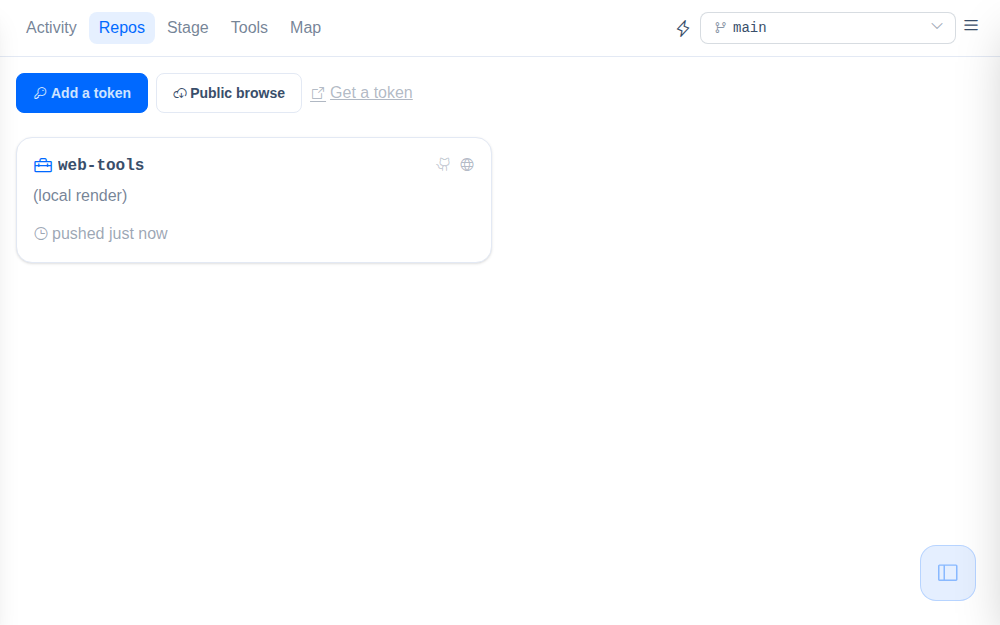
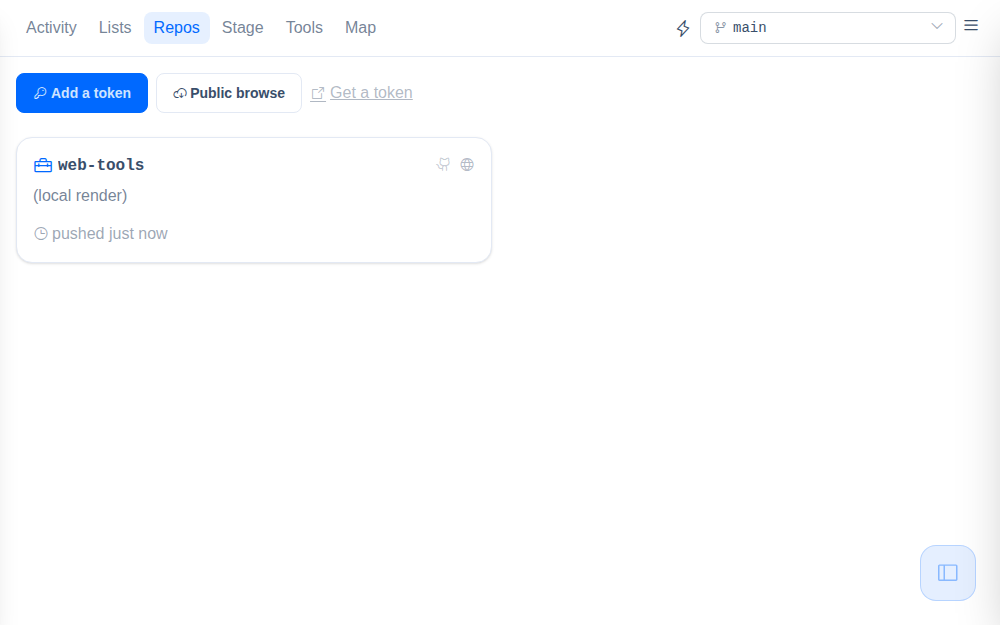
docs/show-repo.md: catch up with Activity's two panes and Lists; refresh the thumb
The doc described a UI that no longer exists: Activity as Open / To-do / Jots by
pill, no Sessions, no Lists, and the retired lg+ right rail narrated as if the
pill were the new thing. Five sites updated, plus two new sections: Sessions
(rows, the two axes, the inline record, and File attention with the three
caveats that keep its ranking honest) and the sessions cache (why it exists, why
its crawl is incremental where the other two are not, and why the fold's scope
is the full listing).

Also regenerates pages/thumbs/show-repo/show-repo.png, this repo's one named
per-session refresh, stale since the pane restructure.

Claude-Session: https://claude.ai/code/session_015WbWLePBL6LeF1Y7XMUhe4

Changed region(s): [[0.062, 0.0, 0.372, 0.0912]]

diff --git a/docs/show-repo.md b/docs/show-repo.md
@@ -41,8 +41,8 @@ Deep-link params: `&view=pages|atlas|files|stage|surfaces|branches|public|todo|j
 all-repo context) or in a **repo** (a per-repo context with its own views).
 
 The **header carries the app-level nav**: a fixed, app-owned set of the estate's
-own views, **Activity** (Open / To-do / Jots by pill), **Repos**, **Stage**,
-**Tools**, and **Map**, as icon buttons (icon + label on desktop,
+own views, **Activity** (Branches / Sessions by pill), **Lists**, **Repos**,
+**Stage**, **Tools**, and **Map**, as icon buttons (icon + label on desktop,
 icon-only on mobile), lit on the active view and present on every viewport. The
 `#repo` component sits beside the nav but renders nothing (it is the repo/auth
 controller and hosts the shared dialog), and there is neither an auth shield nor
@@ -311,15 +311,17 @@ the header nav the way a repo shows landing/atlas/files/…:
 - **Stage** — one nav stop with two pill-switched sub-views, each keeping its
   own deep link: the **bench** (`?view=stage`) and **Saved** (`?view=surfaces`)
   (below).
-- **Activity** — the live layer: one nav stop with three pill-switched
-  sub-tabs, each keeping its own deep link: **Open** (`?view=activity`),
-  **To-do** (`?view=todo`), **Jots** (`?view=jots`) (all below).
+- **Activity** — the estate's own motion: one nav stop with two pill-switched
+  sub-tabs, each keeping its own deep link: **Branches** (`?view=activity`) and
+  **Sessions** (`?view=sessions`) (both below).
+- **Lists** — the two personal piles, To-do over Jot, in one pane rather than
+  two tabs. Both `?view=todo` and `?view=jots` resolve here (below).
 - **Tools** (`?view=tools`) — a curated gallery of utility pages (below).
 - **Map** (`?view=map`) — the portable set, Surfacing, Showing, and the Docs registry (below). Per-repo scope and adoption live on the Repos cards.
 - **Proposals** (`?view=proposals`) — pending cross-repo edits awaiting a confirm
   (below). The one conditional entry: shown only while something is pending.
 
-The estate component renders Repos / Stage / Activity, sharing one lazy mount;
+The estate component renders Repos / Stage / Activity / Sessions / Lists, sharing one lazy mount;
 Tools and Map are their own components on their own lazy mounts.
 
 Behind those, past a hairline rule, the header carries a **second nav group: the
@@ -397,46 +399,74 @@ card, deep-linking straight to its section. Rendered item kinds (both sources):
 path}` or a github.com URL), `url` (external link), `note` / `story` (inline
 body), `embed` (a renderer page in an iframe via a toss-render route).
 
-**Activity** gathers the estate's live layer under one header-nav stop: Open,
-To-do, and Jots, a trio that reads as a gradient of commitment (a jot is
-unshaped intent, a to-do is shaped intent, an open branch is intent in
-flight). One pane shows at a time, at every width: a segmented pill (the
-shared internal-tab style) switches among them, each pill carrying its live
-count, with Open's as-of readout and Refresh riding the pill row. Each
-sub-view keeps its own view key, so `?view=activity`, `?view=todo`, and
-`?view=jots` all deep-link directly and old links resolve unchanged.
+**Activity** gathers the estate's own motion under one header-nav stop, in the
+two readings it has: **Branches**, what is in flight, and **Sessions**, the work
+that made it. A branch is the artifact and a session is the act; each row in one
+pane cross-references the other. A segmented pill (the shared internal-tab
+style) switches between them at every width, each pill carrying its live count,
+and each pane's own as-of readout and Refresh ride the pill row, since the two
+read different caches on different throttles. Both keep their own view key, so
+`?view=activity` and `?view=sessions` deep-link directly.
 
-The layout used to be responsive, the pill on narrow screens only and all
-three panes side by side on `lg+` (Open the main column, To-do and Jots a
+**The stop used to hold four panes**, adding To-do and Jots on the reasoning
+that the four read as a gradient of commitment: a jot is unshaped intent, a
+to-do is shaped intent, an open branch is intent in flight. That reads well and
+was still wrong. A personal checklist is not the estate's activity, it is
+something you keep; and holding the two lists here cost the full content column
+to the two panes that genuinely are activity. They are their own nav stop now,
+**Lists** below.
+
+The layout was responsive before that, the pill on narrow screens only and every
+pane side by side on `lg+` (the branch list as the main column, the two lists a
 24rem right rail). The rail held its width whether or not either list had
-anything in it, and both lists are read on purpose rather than watched, so it
-was a standing claim on the page's scarce axis for content that did not need
-one. The pill's counts keep an unopened pile from going invisible, which is
-the only thing the rail bought that a tab does not.
+anything in it, so it was a standing claim on the page's scarce axis for content
+read on purpose rather than watched. One pane at full width, at any size, is the
+same trade the phone was already making, and the pill's counts keep an unopened
+pile from going invisible, which is the only thing the rail bought that a tab
+does not.
 
-**To-do** (`?view=todo`) is a general, personal checklist: not repo-scoped and
-not a surface, so it keeps its own tiny file, `lists/todo.json` in the
-registry (`{items: [{id, text, done, created_at, done_at}]}`), rather than
-reusing the surfaces schema. Add a line, check it off, or delete it; a
-checked item moves into a collapsed "done" pile instead of disappearing, so
-delete is the only way an item actually goes away. Every mutation writes the
-whole file straight through the viewer's token (`gh-store.js`'s `save`), the
-same as a surface edit, so it is durable across browsers and devices, not a
-per-browser `localStorage` list. Token-gated like Surfaces: no token, no list.
+### Lists
 
-**Jots** (`?view=jots`) is the capture sibling of To-do: quick ideas, one flat
-item list in the registry's `lists/jots.json` (`{items: [{id, text,
-created_at}]}`), same whole-file write mechanics. The lifecycles differ: a
-to-do tracks work and completes; a jot has no done state. It sits in the pile,
-newest first with its age showing, until it is promoted somewhere with a real
-home (a chron entry, a tracker task, a to-do) or deleted. Two hooks anticipate
-the maintenance cycle around that promotion without building it yet: the add
-commit carries the jot's text, so the file's git history is itself a capture
-log, and the registry sits in agent-session scope, so an agent session can
-read the pile and drain it (promote, then delete) the way `chron/dump/` is
-drained. The two lists live under `lists/` because they are authored content
-with the registry as their source of truth; `state/` stays derived caches
-only.
+**Lists** is To-do over Jot, both on screen at once. Merging them is what made
+the tab unnecessary rather than merely fewer: the reason to switch tabs was to
+see the other one. Both old keys still resolve here, `?view=todo` and
+`?view=jots`, so a saved link lands somewhere real.
+
+The split is fixed halves, each scrolling **inside itself**, so adding to one
+never pushes the other off screen. That needs a definite height, which the shell
+hands down: for this view only (`listsFill`), the estate pane and its column
+become `flex` + `overflow-hidden` instead of the ordinary scrolling column, and
+the component root joins the chain. Nothing in the pane adds a card, a border
+box, or a second layer of padding: two sections, one hairline between them, and
+the scroll on the list rather than the page. Each half keeps its heading and add
+form pinned while its list scrolls, since the add form is the reason you came;
+the heading row wraps at narrow widths so the input never squeezes, with no
+breakpoint to disagree at any size.
+
+**To-do** is a general, personal checklist: not repo-scoped and not a surface,
+so it keeps its own tiny file, `lists/todo.json` in the registry (`{items: [{id,
+text, done, created_at, done_at}]}`), rather than reusing the surfaces schema.
+Add a line, check it off, or delete it; a checked item moves into a collapsed
+"done" pile instead of disappearing, so delete is the only way an item actually
+goes away. Every mutation writes the whole file straight through the viewer's
+token (`gh-store.js`'s `save`), the same as a surface edit, so it is durable
+across browsers and devices, not a per-browser `localStorage` list. Token-gated
+like Surfaces: no token, no list.
+
+**Jot** is the capture sibling: quick ideas, one flat item list in the
+registry's `lists/jots.json` (`{items: [{id, text, created_at}]}`), same
+whole-file write mechanics. Singular, because you jot one thing; the file keeps
+its plural name, since renaming a data file to match a label is a migration that
+buys nothing. The lifecycles differ: a to-do tracks work and completes; a jot has
+no done state. It sits in the pile, newest first with its age showing, until it
+is promoted somewhere with a real home (a chron entry, a tracker task, a to-do)
+or deleted. Two hooks anticipate the maintenance cycle around that promotion
+without building it yet: the add commit carries the jot's text, so the file's git
+history is itself a capture log, and the registry sits in agent-session scope, so
+an agent session can read the pile and drain it (promote, then delete) the way
+`chron/dump/` is drained. Both lists live under `lists/` because they are
+authored content with the registry as their source of truth; `state/` stays
+derived caches only.
 
 **Branches** (`?view=activity`, called Open until the scope chips arrived) is
 **every** branch of the estate in one cross-repo list, freshest first, narrowed
@@ -573,13 +603,80 @@ either way (`lib/branch-survey.js` `surveyBranchLive`, shared by the view and th
 crawl). Source-of-truth rule as ever: the cache is derived and may be briefly
 stale; Refresh re-surveys live.
 
+### Sessions
+
+**Sessions** (`?view=sessions`) is every recorded Claude Code session, newest
+first. Branches answers what is in flight; this answers what a stretch of work
+was about, how long it ran, what it fought, and which files it opened. Each row
+carries the day and the record's short id (its own filename, so what is on screen
+is what you type at `search.py --show`), the branches it was sitting on, the
+opening ask, and a count row: user turns, tool calls, failures, distinct files,
+and output tokens. The rail goes amber where the session hit failures and stays
+muted otherwise, deliberately not green-for-clean, since a clean session is the
+normal case and a page of green rails says nothing.
+
+Two axes, the same shape as Branches. **Scope** is time (`Week`, `Month`, `All`)
+plus **Snagged**, which is not a time window at all: it is every session that hit
+a failing tool call, however old, and it is the cross-session recurrence question
+a corpus can count and a person cannot. **Repo** chips narrow it further, off the
+scoped list, and lapse back to All when the scope stops holding that repo.
+
+Tapping a row opens the full record inline (a takeover would need its own swipe
+deck and back stack for rows read one at a time): the asks in order, the files
+with their read/edit/write breakdown, and the failing calls with their bodies. A
+footnote names what the record could not have captured, since a schema-2 record
+has no files and a schema-1 record no calls at all, and an empty section would
+otherwise read as "this session did nothing" rather than "this was not captured
+then". Tapping a branch name jumps to Branches filtered to that repo, at scope
+All rather than Open, because the session outlives the branch and a merged branch
+must still be findable from the work that made it.
+
+Below the list, **File attention** is the cross-session rollup: per path, how
+many **distinct** sessions opened it. Distinct sessions is the number that
+resists one session's habits, since one session editing a file forty times says
+the session was busy while ten sessions opening it says the file is load-bearing.
+It carries its own honesty note, and that note is load-bearing too: the counts
+come from four file tools (`Read`, `Edit`, `Write`, `NotebookEdit`) and nothing
+else, so a file read through a shell command leaves no trace, subagent traffic is
+excluded upstream, and a doc injected at session start reads **zero** while being
+among the most-read files in the estate. Without that stated, the ranking says
+the opposite of the truth on exactly the docs that matter most.
+
+### Sessions cache (`state/sessions.json`)
+
+The third derived cache, and the odd one: its source is not another repo's
+config but the registry's own **captured** layer, the per-session records the
+Stop hook publishes (`web-tools-private/sessions/README.md`). It exists because
+that layer cannot be read directly. The store is 4.6 MB across 40 records and
+grows about six a day, and one record runs to half a megabyte; a summary row is
+~350 bytes, so the whole cache is smaller than a single record, and a full record
+is fetched only when a row is opened.
+
+The crawl is genuinely incremental where the other two are not. A published
+record is addressed by a git blob sha, so one recursive trees call names every
+record and its sha, and `stalePaths` re-reads only those whose sha moved. In
+steady state that is the day's handful plus the live session's own record, which
+is republished on every Stop and so is always stale by design, with no special
+case for "the current one". `refreshSessionsCache` runs it on a ~3h per-browser
+throttle (lighter than the activity crawl, being a tree read and a few blobs, so
+a shorter interval) and commits only when the folded rows materially changed.
+
+The fold's scope is the **full** listing, never the batch it read: a record the
+per-crawl cap deferred keeps its row, and only a record genuinely gone from the
+store loses one. That is the same distinction `buildCache` draws in the activity
+cache, for the same reason, and it matters more here because the source is
+unregenerable. The cache also carries the `attention` rollup, computed once so
+the pane and anything later (the Docs registry's readership column, web-tools
+task `docs-read-tracking-sn9nj8`) read one derivation rather than two.
+
 Token gating: no token means the public default card only, no surfaces, no
-activity, and no write controls. In that state the Repos view leads with a
+activity, no sessions, and no write controls. In that state the Repos view leads with a
 **public banner** that says exactly what is and isn't available and offers the
 two real next steps, a token or Public browse, instead of a vague "set a token"
 aside. Deep links: `?view=estate` (the bare URL is the Repos estate already; the
 param is stamped only when a `repo`/`ref` param is also present), `?view=stage`
-and `?view=activity` (always stamped, so each is shareable on its own).
+`?view=activity`, and `?view=sessions` (always stamped, so each is shareable on
+its own).
 
 **The shared dialog is scoped by how it is opened.** With no repo, from the
 **account row** at the top right of the Repos view, it is an **account panel**:
@@ -1020,8 +1117,9 @@ data half. After the shell change merges, the deployed form
 `show-repo.html?overlay=<branch>` does the same for data-only branches.
 
 The honest limits, stated rather than implied: the overlay re-derives only
-the per-repo **manifests**; other main-derived artifacts (the activity cache,
-tracker boards, generated catalogs) are not overlaid and read main. And an
+the per-repo **manifests**; other main-derived artifacts (the activity and
+sessions caches, tracker boards, generated catalogs) are not overlaid and read
+main. And an
 overlay link is only as durable as the branch it names: once the branch
 merges and is deleted, every probe misses and the link degrades to a plain
 main view, which is the correct end state for a preview.
@@ -1167,8 +1265,8 @@ repos. All are optional; a repo with no config is simply off the estate.
     the flag is additive.
 
     *When to reach for it.* A view whose subject is **the estate** is built into
-    the shell (Activity, Repos, Surfaces, Stage, Map, Proposals, and the To-do
-    and Jots lists, which are operational to the tool). A view whose subject is
+    the shell (Activity, Sessions, Repos, Surfaces, Stage, Map, Proposals, and
+    the Lists pane, which is operational to the tool). A view whose subject is
     **content** is an app view over the repo that owns it: the renderer stays
     public here, the content stays wherever it belongs. News and Links are both
     that shape, home's data through a web-tools page. Two consequences worth
